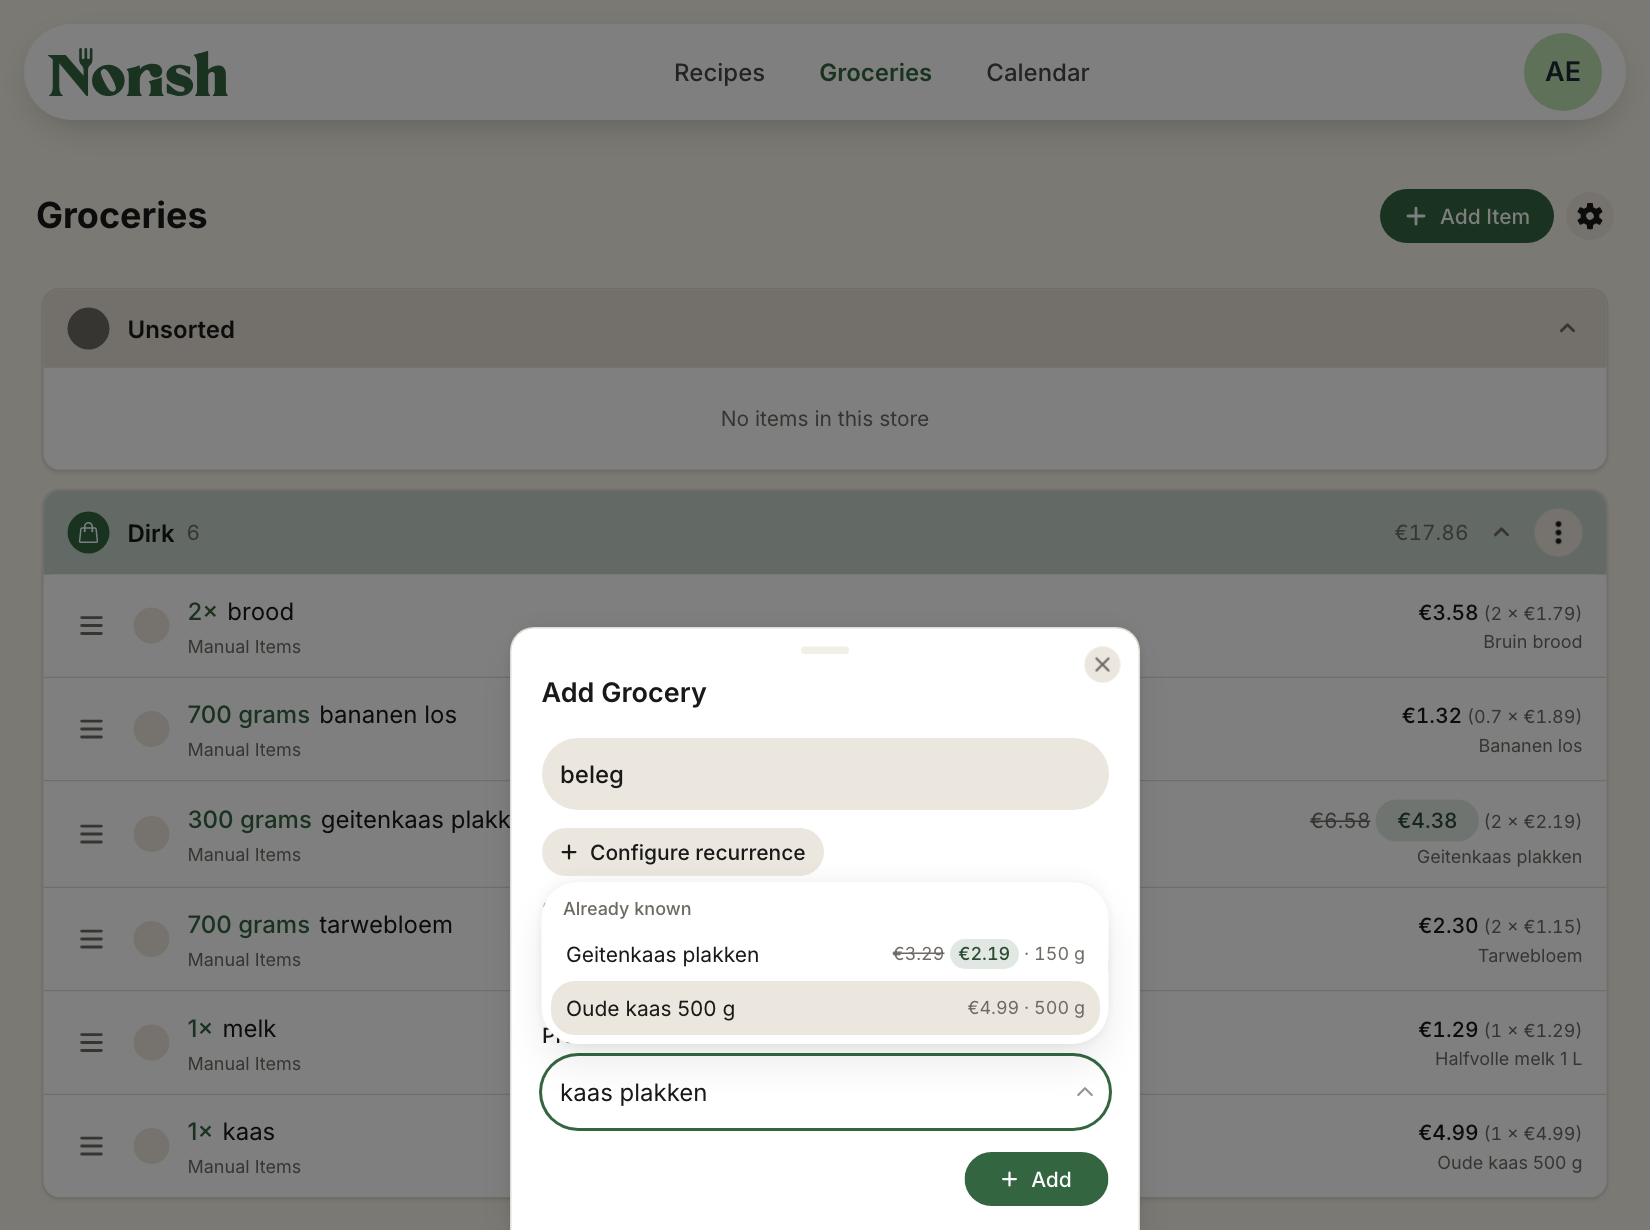
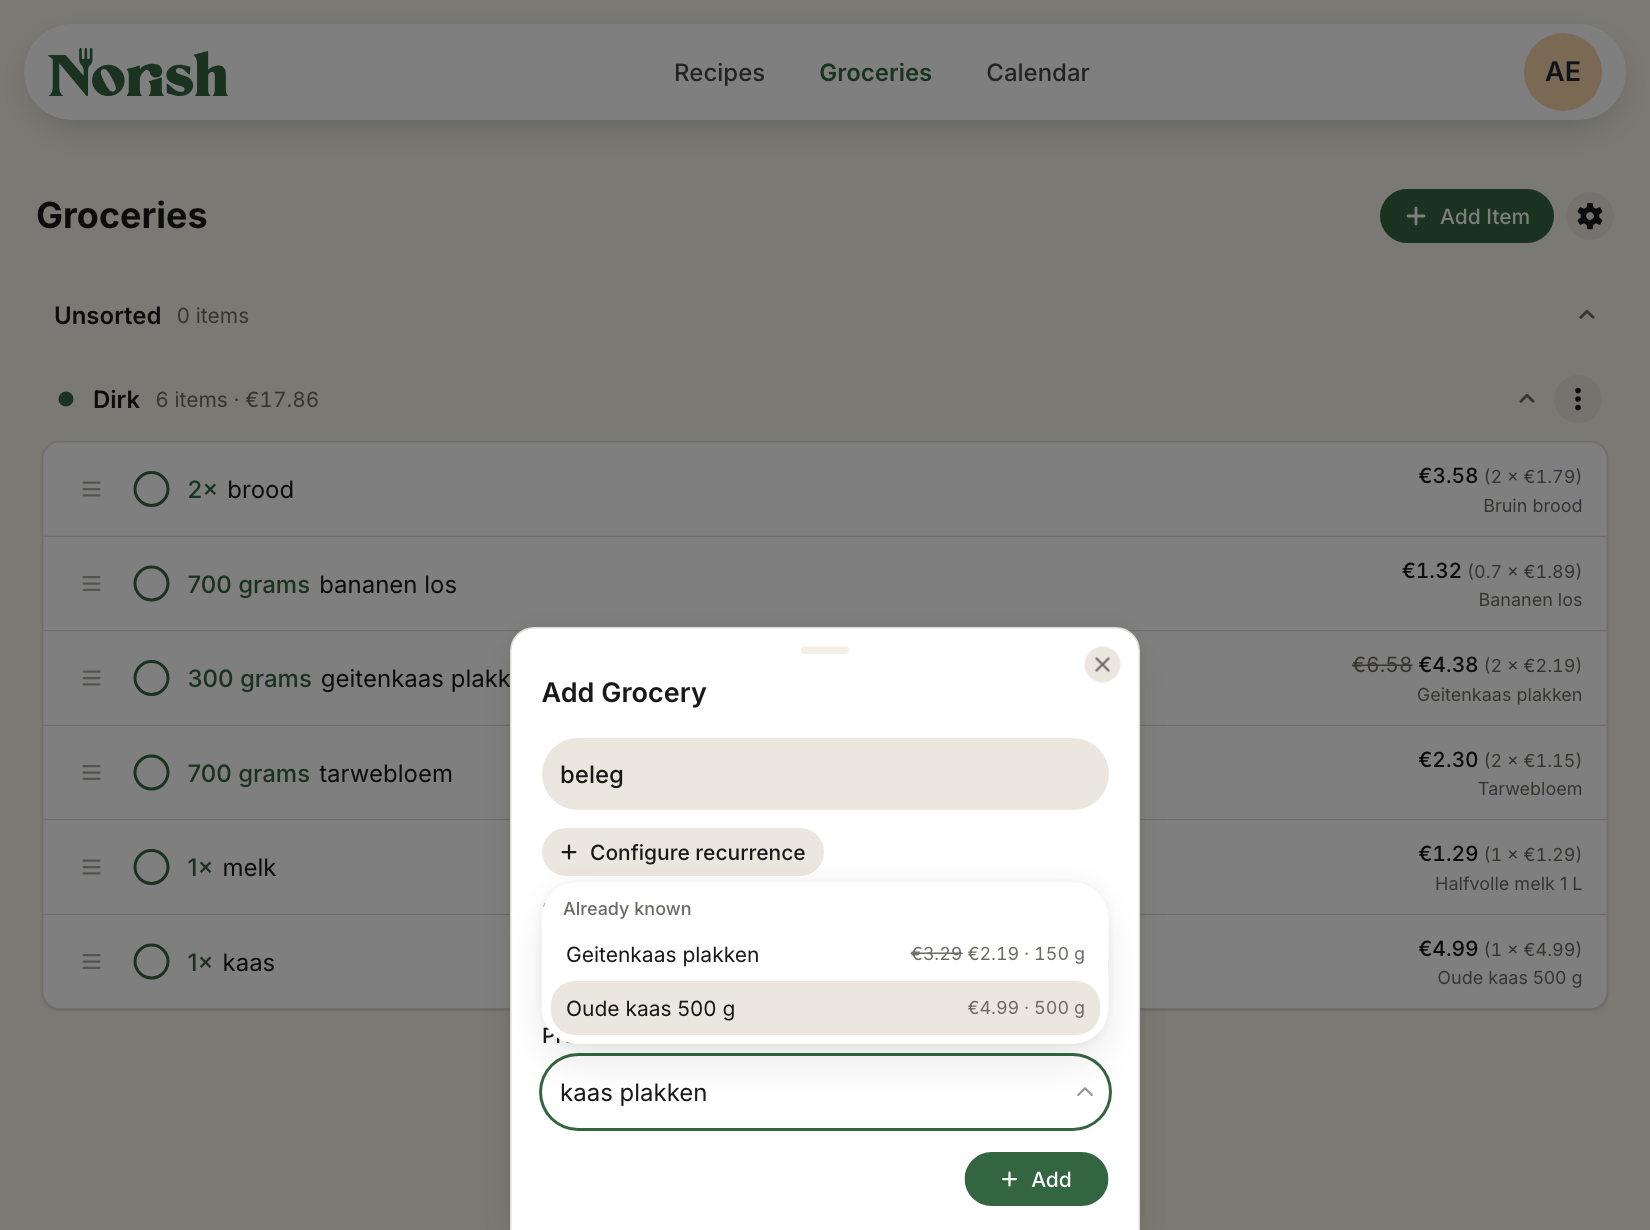
docs(groceries): the redesigned page in the docs and the release notes
The Aisles page and the 0.23.0-beta release notes stop saying the Aisles
sit "under the icon picker" and say under the colour, and describe the done
row and the counted aisle headings where they described the Done heading.
The release notes gain a section on the redesigned page — headings on the
ground, the dot, the tinted checkboxes, the done row, the icon gone and the
eight named hues — a line in the summary, and an upgrade note for migration
0051, which drops the icon column.

The seven groceries screenshots are re-shot with the two docs-screenshot
specs, each in its own Playwright invocation, against the rebuilt app. The
dashboard screenshots do not show the groceries list and are left as they
are.

Ticket: .scratch/redesign-groceries-page/issues/06-docs-screenshots-release-notes.md

Claude-Session: https://claude.ai/code/session_016vfhk7jokD4Jqz8ZLohcCn

diff --git a/apps/docs/docs/release-notes/0.23.0-beta.md b/apps/docs/docs/release-notes/0.23.0-beta.md
@@ -19,6 +19,10 @@ you walk them, and your list is shown by aisle. File a grocery once, by drag or
 from its panel, and the Store remembers where that name is found, this week and
 every week after.
 
+**A calmer groceries page.** Every Store is a heading on the page with its rows
+in a white card beneath it, marked by a small dot in its colour rather than a
+coloured box and an icon; ticked rows fold into one row that opens on tap.
+
 ## Features
 
 ### What your groceries cost
@@ -78,7 +82,7 @@ supermarket for a list nobody is shopping.
 
 ### Your list in the order you walk the shop
 
-Give a Store **Aisles** in the store editor, under the icon picker: add one by
+Give a Store **Aisles** in the store editor, under the colour: add one by
 name, rename in place, drag to reorder, remove with an X. Nothing is written
 until you press Save, the aisles are saved with the Store, and your household
 shares them through the Store it already shares. A Store with no aisles is
@@ -86,10 +90,10 @@ exactly the Store it always was, and a Store with no website can have aisles
 too.
 
 - A Store with aisles shows **every aisle as a slim heading**, in the Store's
-  order, whether or not anything is filed under it, an empty one quieter than a
-  filled one. The Store's heading, total, "Mark all done" and "Delete done" stay
-  as they are, and ticked groceries sink into the done tail as before, under a
-  **Done** heading of its own.
+  order, whether or not anything is filed under it, a filled one counting the
+  lines under it and an empty one quieter. The Store's heading, total, "Mark
+  all done" and "Delete done" stay as they are, and ticked groceries fold into
+  the Store's done row as everywhere else on the page.
 - A grocery the Store has never been told about is **unfiled** and sits at the
   top of the block under no heading, where it is noticed and filed. Norish
   never guesses an aisle from words.
@@ -115,6 +119,40 @@ read-only; the REST create is unchanged, and filing has no REST endpoint. The
 mobile app shows the list as it did.
 
 [Aisles](../groceries/aisles.md).
+
+### The groceries page, redesigned
+
+The list reads as one calm page. Every Store, and Unsorted, is a **heading
+directly on the page** with its rows in a white card beneath it: a small
+**dot in the Store's colour**, the name, what is left and what it costs —
+"4 items · €17.86" — the chevron that folds the Store, and the menu that still
+holds Mark all done and Delete done. The colour appears only where it marks:
+the dot, and the **ring and fill of every checkbox** under that Store, so you
+still know whose rows you are in once the heading has scrolled away. The
+amount in front of a name stays in the accent, and rows under Unsorted keep
+the accent too.
+
+- **The icon is gone.** A shop is identified by its name; nothing you set is
+  lost, and the eight colours a Store can have are now eight clearly distinct
+  hues named by what they look like — Green, Rose, Teal, Amber, Red, Grey,
+  Blue, Violet — the same on the web and on the phone, where two Stores that
+  used to look alike no longer do.
+- **Ticked rows fold into one row** at the bottom of the card that reads
+  "3 done" and opens on tap, closed every time you open the list, so what is
+  left to buy is all you see as you go. Untick something in it and it returns
+  to its aisle.
+- A Store where everything is ticked shows a **check mark in place of its dot**
+  and says **All done**. A collapsed Store, and an empty one, is its heading
+  line alone — and you can still drop a row on it.
+- A row with nothing more to say is one line tall; the recipe a grocery came
+  from, its recurrence or its product appear beneath the name only when there
+  is one. Aisle headings are slimmer and count the lines under them.
+- The By Recipe view takes the same shape, with each row's checkbox in the
+  colour of the Store it is assigned to.
+
+For self-hosting operators: the `icon` column on `stores` is dropped by
+migration; a Store created through `POST /api/v1/stores` needs no icon, and
+one that still sends it is accepted with the field ignored.
 
 ## Fixes and Improvements
 
@@ -146,7 +184,9 @@ mobile app shows the list as it did.
   on `stores` are added by migration; `store_products` further gains the Pack
   Size and Sale columns, and `tried_at` on `store_product_links` becomes
   nullable. `groceries` gains a nullable `purchase_amount` column (migration
-  0049). Two new tables, `aisles` and `aisle_links`, are added by migration 0050. No environment variables changed.
+  0049). Two new tables, `aisles` and `aisle_links`, are added by migration 0050.
+  Migration 0051 drops the `icon` column from `stores`. No environment
+  variables changed.
 
 ## Contributors
 

diff --git a/apps/docs/docs/groceries/aisles.md b/apps/docs/docs/groceries/aisles.md
@@ -17,13 +17,13 @@ can have a route through it.
 
 ## Giving a Store its aisles
 
-Open **Manage Stores**, edit a store, and under the icon picker you find its
+Open **Manage Stores**, edit a store, and under the colour you find its
 **Aisles**. Type a name and press Enter or the plus to add one, type over a
 name to rename it, drag the handle to reorder, and press the X to remove one.
 A name the Store already has, in any case, is refused where you type it, so
 "Zuivel" and "zuivel" cannot both exist.
 
-![The store editor, with the Store's aisles under the icon picker](/img/screenshots/groceries-aisles-editor.png)
+![The store editor, with the Store's aisles under the colour picker](/img/screenshots/groceries-aisles-editor.png)
 
 Nothing is written until you press **Save**: the aisles are saved with the
 Store, in one go, so you can experiment freely and removing an aisle needs no
@@ -32,15 +32,16 @@ Your household shares them through the Store it already shares.
 
 ## The list by aisle
 
-Once a Store has aisles, its block shows every one of them as a slim heading,
-in the Store's order, whether or not anything is filed under it, an empty one
-quieter than a filled one, so the shop's shape is always visible and there is
-always a place to drag a row. The Store's heading, its total, "Mark all done"
-and "Delete done" stay exactly as they are, and ticked groceries sink into the
-Store's done tail as they always did, now under a heading of its own, **Done**,
-so they never read as filed in the last aisle.
+Once a Store has aisles, its card shows every one of them as a slim heading,
+in the Store's order, whether or not anything is filed under it, so the shop's
+shape is always visible and there is always a place to drag a row. A filled
+aisle's heading is followed by how many lines are under it; an empty one is
+quieter and carries no count. The Store's heading, its total, "Mark all done"
+and "Delete done" stay exactly as they are, and ticked groceries fold into the
+**done row** at the bottom of the card, so they never read as filed in the
+last aisle.
 
-![A Store's block shown by aisle, with unfiled rows at the top](/img/screenshots/groceries-aisles-list.png)
+![A Store's card shown by aisle, with unfiled rows at the top](/img/screenshots/groceries-aisles-list.png)
 
 A grocery the Store has never been told about is **unfiled**: it sits at the
 top of the block, under no heading, where it is noticed and filed. Norish never

diff --git a/.scratch/redesign-groceries-page/issues/06-docs-screenshots-release-notes.md b/.scratch/redesign-groceries-page/issues/06-docs-screenshots-release-notes.md
@@ -1,6 +1,6 @@
 # 06: Docs, screenshots and release notes
 
-Status: ready-for-agent
+Status: ready-for-human
 Blocked by: 02, 03, 04, 05
 
 Spec: `.scratch/redesign-groceries-page/spec.md`
@@ -18,7 +18,7 @@ A docs reader sees the page as it now is. The Aisles page and the 0.23.0-beta re
 
 ## Acceptance criteria
 
-- [ ] No docs page or release note mentions an icon picker.
-- [ ] Every groceries screenshot shows the new heading, dot and card; the dashboard shots are confirmed unaffected or re-shot.
-- [ ] The current release-notes checkpoint carries a paragraph on the redesign.
-- [ ] The docs site builds.
+- [x] No docs page or release note mentions an icon picker.
+- [x] Every groceries screenshot shows the new heading, dot and card; the dashboard shots are confirmed unaffected or re-shot.
+- [x] The current release-notes checkpoint carries a paragraph on the redesign.
+- [x] The docs site builds.
